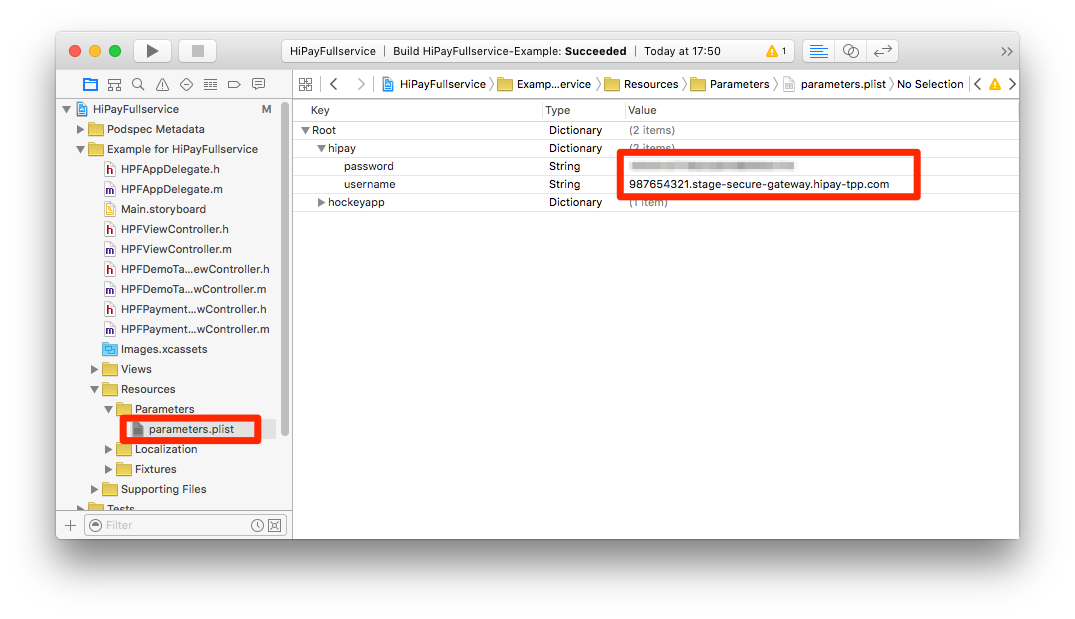
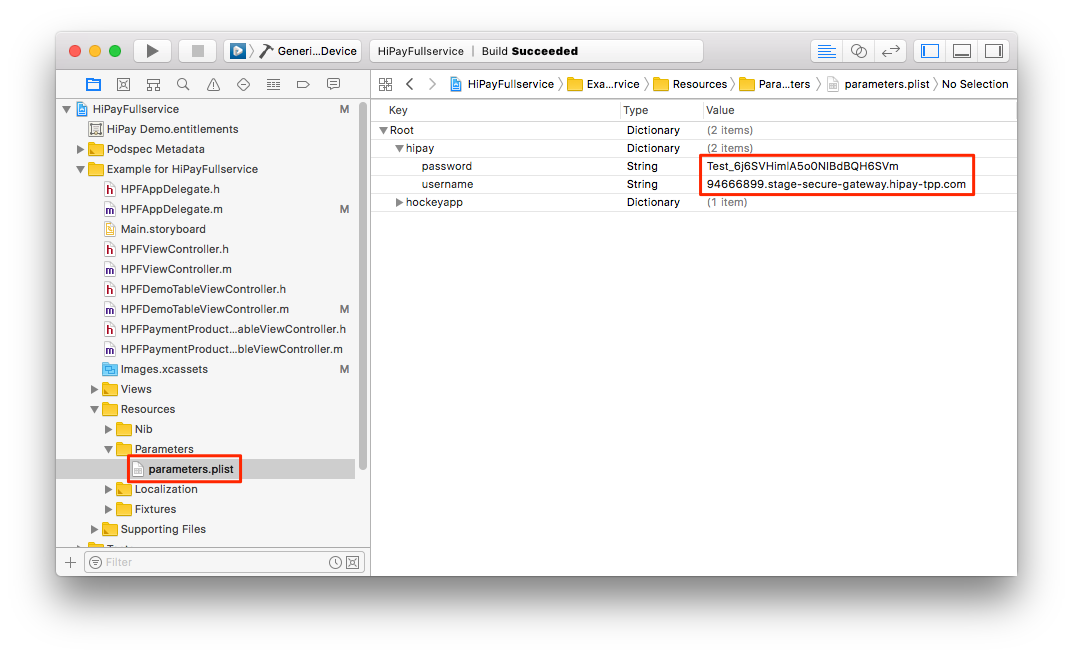
Add the test credentials to iOS SDK

Changed region(s): [[0.0308, 0.0614, 0.9534, 0.8901]]

diff --git a/hipay-enterprise-sdk-ios/08-Testing-the-demo-app.md b/hipay-enterprise-sdk-ios/08-Testing-the-demo-app.md
@@ -44,29 +44,14 @@ Open the `HiPayFullservice.xcworkspace` workspace by typing the following comman
 
 	$ open HiPayFullservice.xcworkspace
 
-### Adding your credentials
+### Adding the test credentials
 
-To try the demo application with your HiPay Enterprise API test credentials, open the `parameters.plist` file and set your API username and password, as follows:
+To try the demo application with your HiPay Enterprise API test credentials, open the `parameters.plist` file and set these API username and password:
+
+`94666899.stage-secure-gateway.hipay-tpp.com`  
+`Test_6j6SVHimlA5o0NIBdBQH6SVm`
 
 ![Setting API credentials for the demo app](images/credentials.png)
-
-To find your credentials, please refer to the [Prerequisites and recommendations](#prerequisites-and-recommendations) section.
-
-### Setting the proper passphrase
-
-The demo app uses a HiPay test web service which generates the signature based on a specific passphrase. Thus, in order to test the demo app, you must set the same specific passphrase on your HiPay Enterprise test account.
-
-To set the passphrase, please sign in to your HiPay Enterprise back office. Then, go to the "Integration" section and click on "Security Settings". Finally, set the following string in the "Secret Passphrase" input field: 
-
-	32JUWB3veDWWmHySNJvtvPyBnqrDFEHbaP3jr
-
-**Warning: do NOT set this passphrase on your live/production account. This specific passphrase must be used for testing purposes only.**
-
-You should get that on your screen:
-
-![](images/passphrase.png)
-
-Don't forget to apply your changes.  
 
 ### Running the demo app
 
